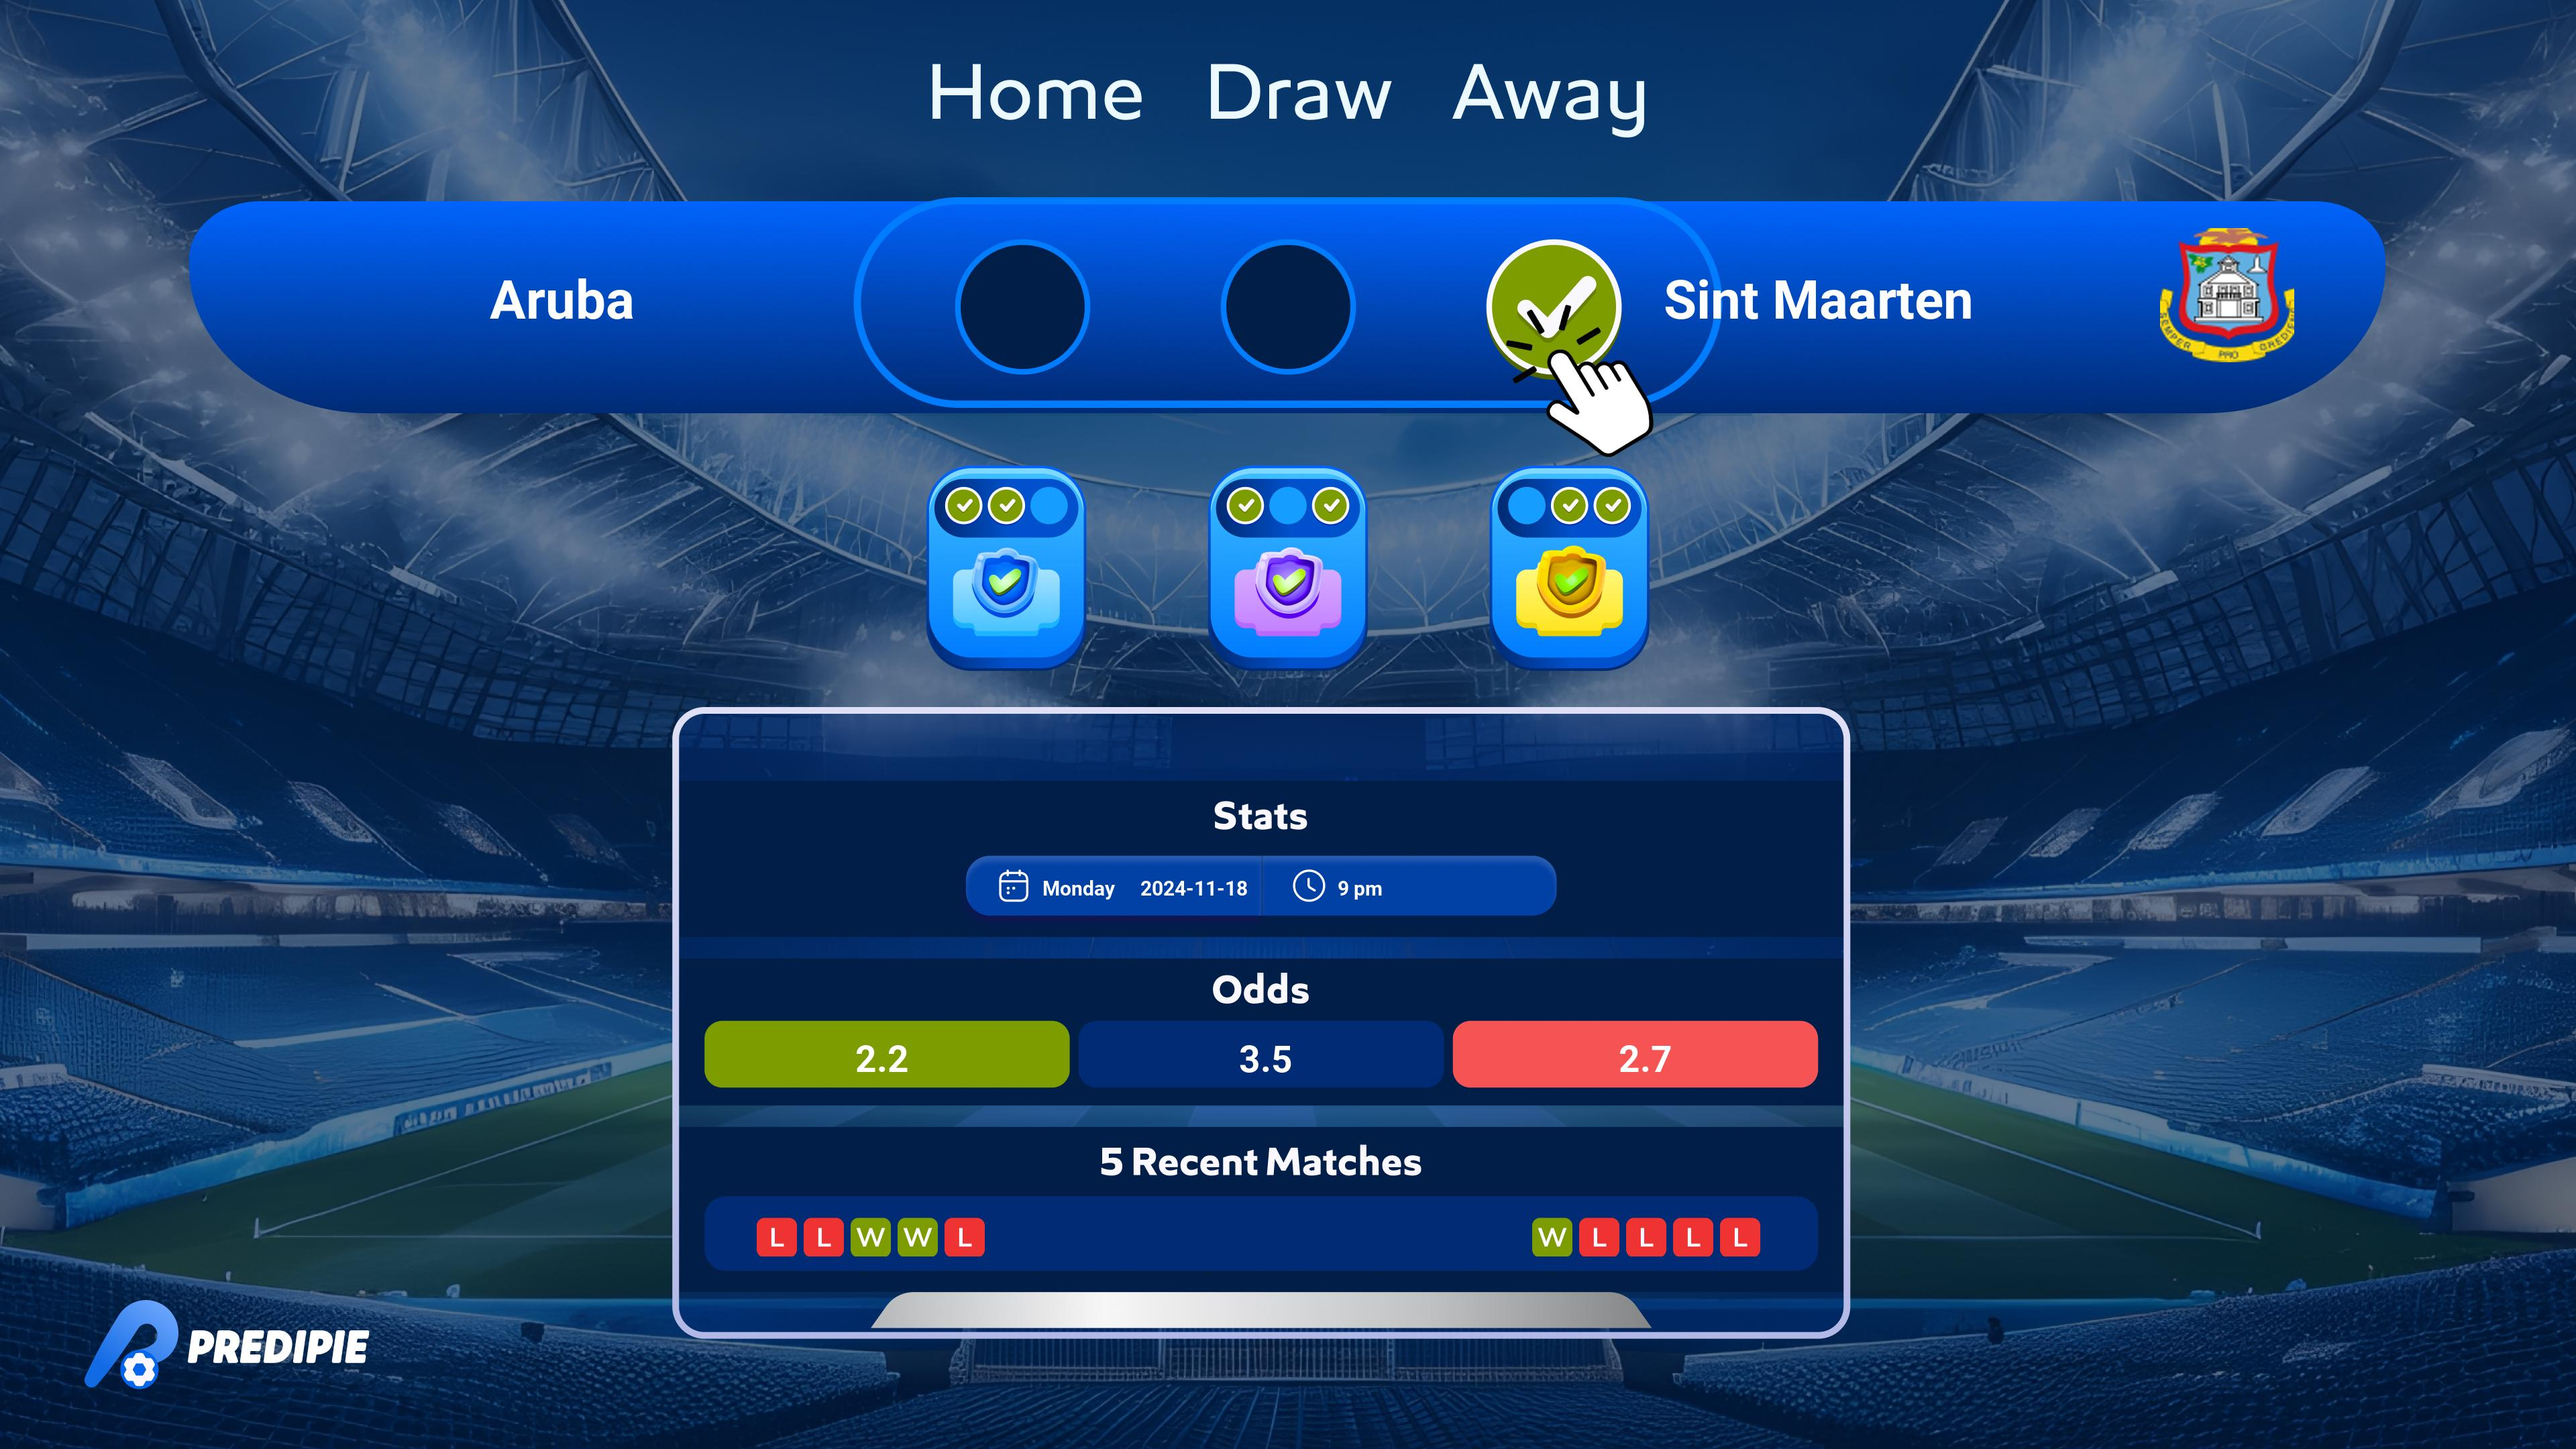
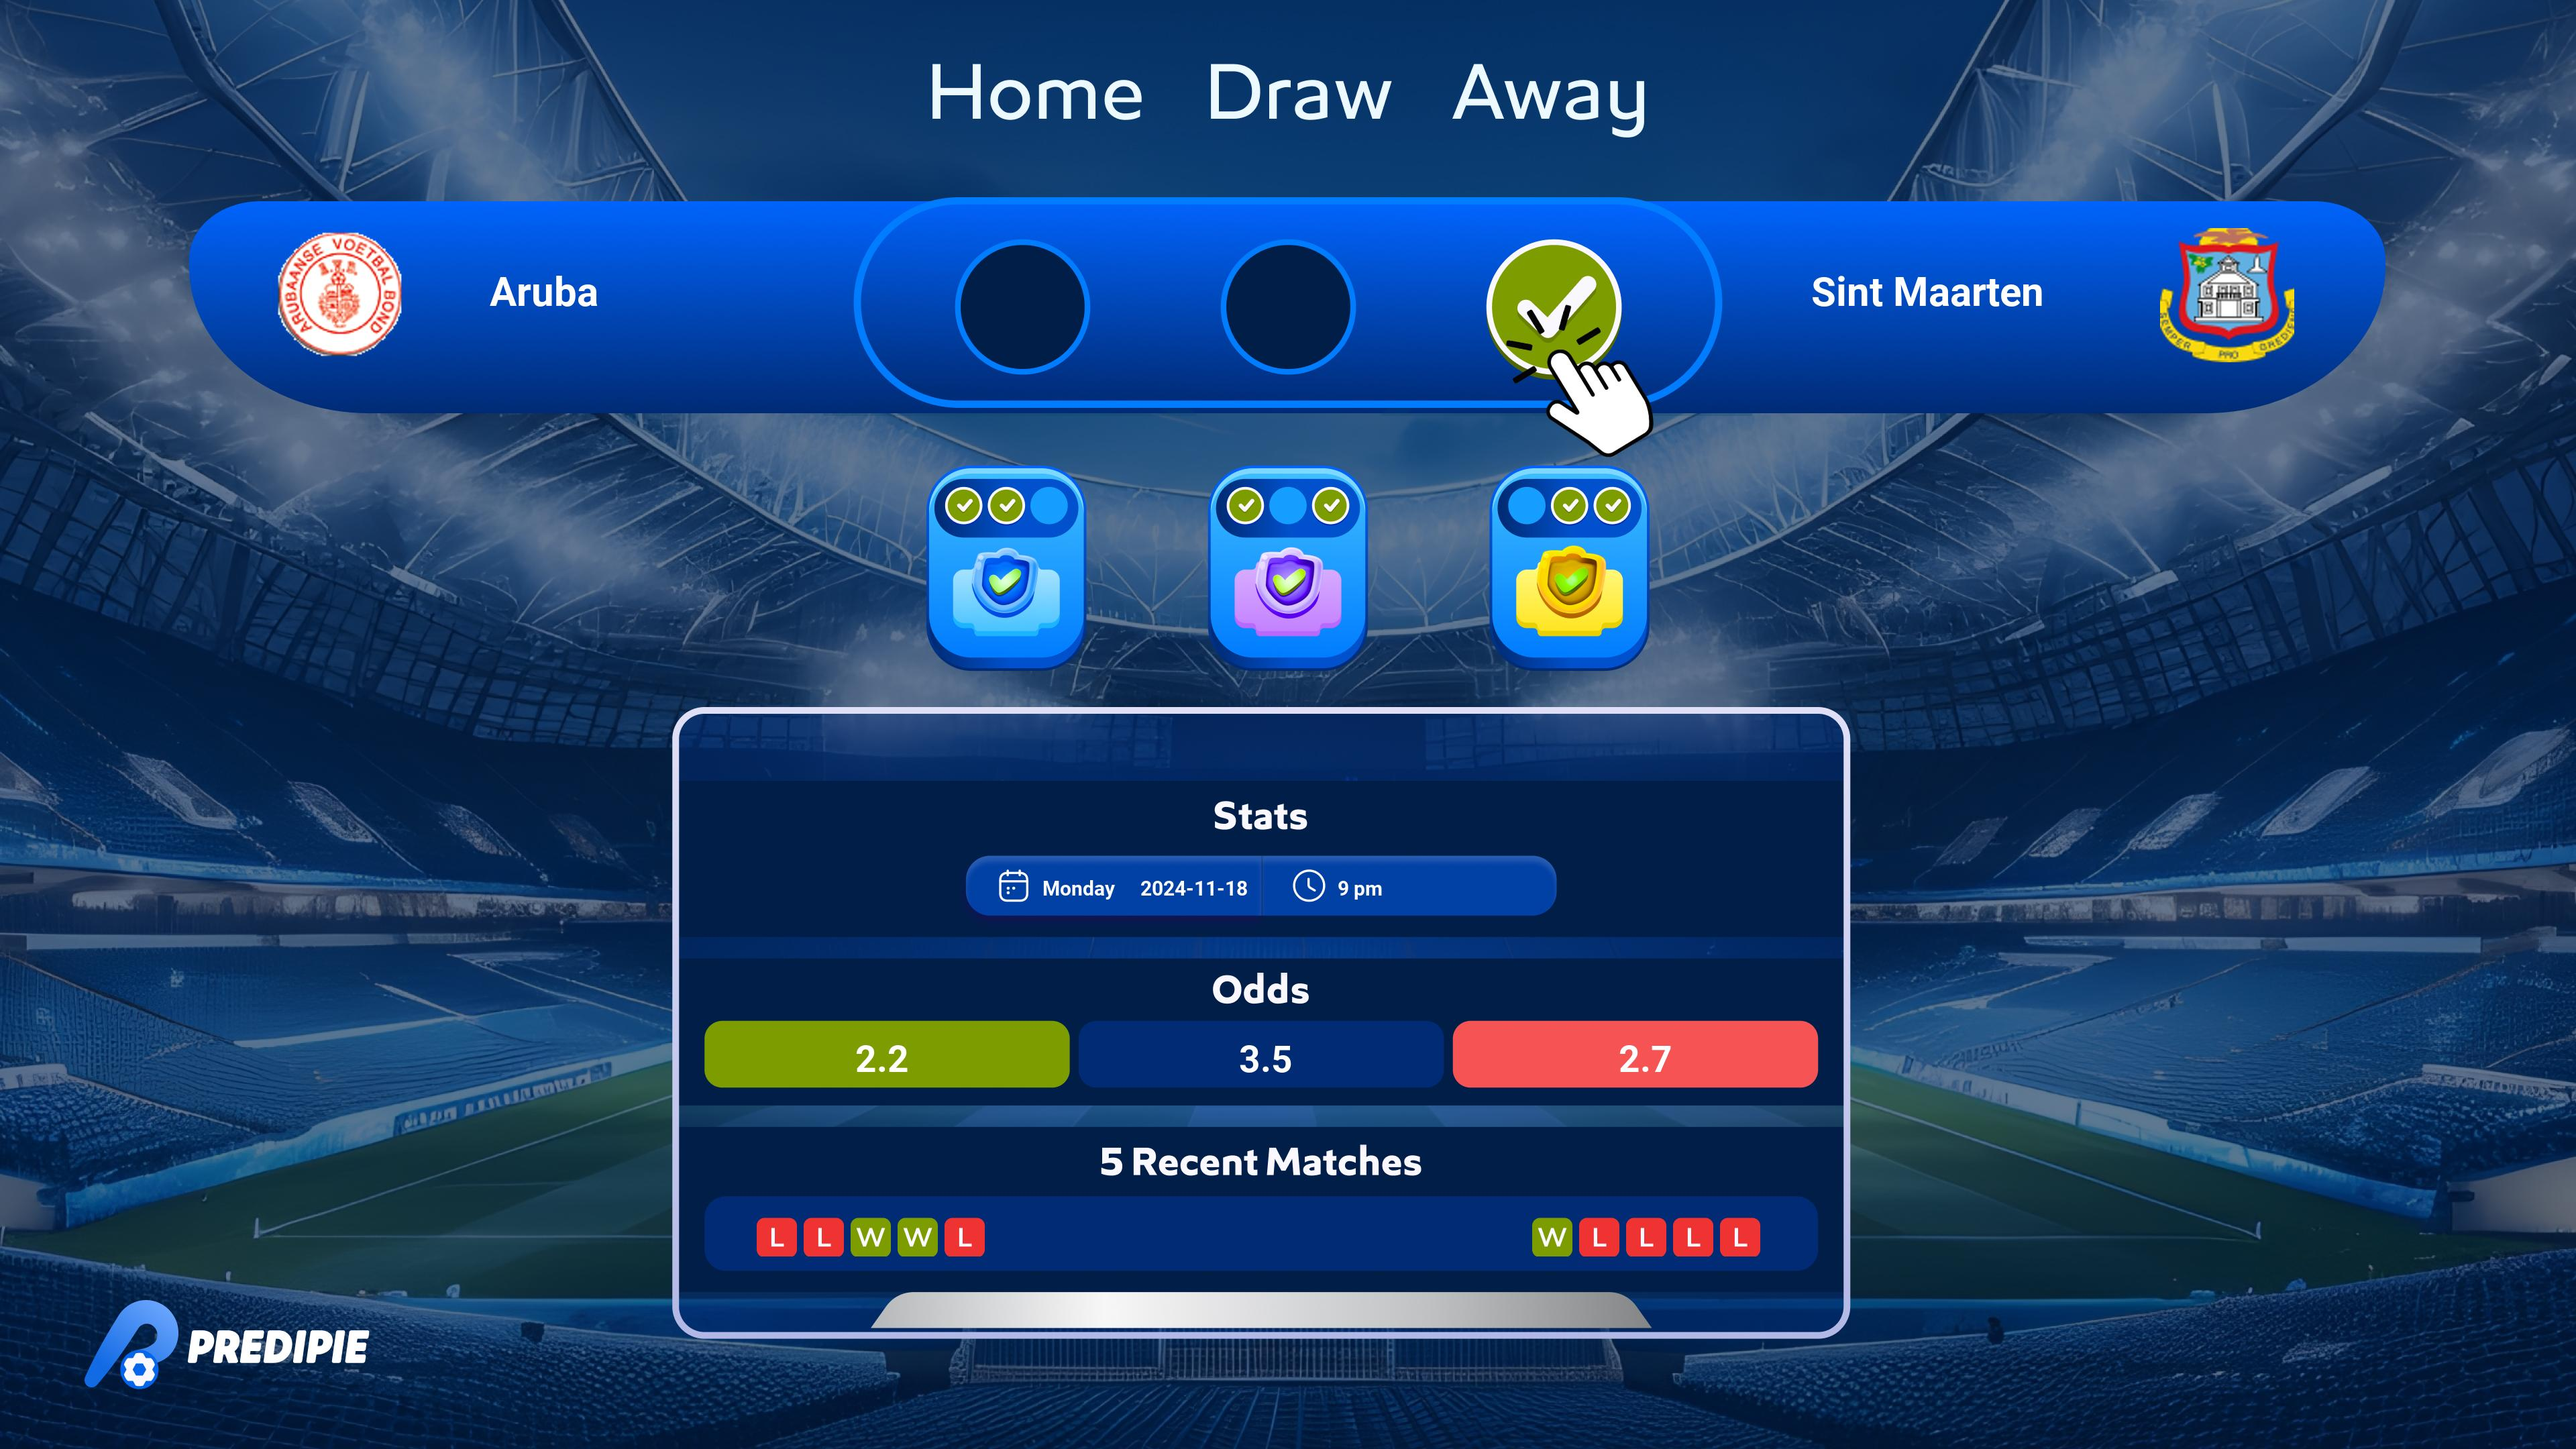
fix: image_5 away team position

Changed region(s): [[0.625, 0.1861, 0.8125, 0.2171], [0.0938, 0.1551, 0.1562, 0.2481], [0.1875, 0.1861, 0.25, 0.2171]]

diff --git a/Predipie-Json/newsrc/imageBuilder/image_renderer.py b/Predipie-Json/newsrc/imageBuilder/image_renderer.py
@@ -15,40 +15,52 @@ class ImageRenderer:
             return ImageFont.truetype(font_path, font_size)
         except IOError:
             print("Custom font not found, using default font.")
-            return ImageFont.load_default()
-    
+        return ImageFont.load_default()
+
     def draw_text(self, draw, position, text, font, color="white"):
         draw.text(position, text, fill=color, font=font)
 
     def paste_icon(self, image, icon, position):
         image.paste(icon, position, icon)
 
-    def render_image(self, image, data, positions, font_path="Roboto-Bold.ttf"):
+    def render_image(self, image, data, positions, image_index, font_path="Roboto-Bold.ttf"):
         draw = ImageDraw.Draw(image)
         
-        # بارگذاری فونتهای با اندازههای مختلف
-        default_font = self.load_font(font_path, 80)
-        small_font = self.load_font(font_path, 30)
-        medium_font = self.load_font(font_path, 55)
+        # تنظیم اندازه فونتها بر اساس تصویر مورد نظر
+        if image_index == 4:
+            # کوچکتر کردن اندازه فونت برای نام تیمها در عکس پنجم
+            team_name_font = self.load_font(font_path, 60)
+        else:
+            team_name_font = self.load_font(font_path, 80)
+
+        stats_font = self.load_font(font_path, 30)
+        odds_font = self.load_font(font_path, 55)
         
         for key, pos in positions.items():
             if key in data:
-                print(f"Drawing {key} at {pos} with data: {data[key]}")  # چاپ اطلاعات برای بررسی
+                print(f"Drawing {key} at {pos} with data: {data[key]}")
+                
                 if "logo" in key:
-                    logo_url = data[key]
-                    try:
-                        response = requests.get(logo_url)
-                        logo = Image.open(BytesIO(response.content)).resize((200, 200))
-                        image.paste(logo, pos, logo)
-                    except Exception as e:
-                        print(f"Could not load logo from {logo_url}: {e}")
+                    # Fetch and paste team logos with RGBA conversion to avoid transparency mask issues
+                    response = requests.get(data[key])
+                    logo = Image.open(BytesIO(response.content))
+
+                    # Ensure logo is in RGBA mode
+                    if logo.mode != "RGBA":
+                        logo = logo.convert("RGBA")
+                    
+                    logo = logo.resize((200, 200))
+                    image.paste(logo, pos, logo)
+                
                 elif key in ["home_team_last_5", "away_team_last_5"]:
-                    # رسم آیکونهای نتایج بازیهای اخیر
+                    # Handle recent matches icons
                     recent_matches = data[key]
-                    icon_spacing = 70  # فاصله بین آیکونها
+                    icon_spacing = 70
                     x_offset = pos[0]
                     
                     for result in recent_matches:
+                        # Match W, L, D regardless of case
+                        result = result.upper()
                         if result == 'W':
                             icon = self.win_icon
                         elif result == 'D':
@@ -56,19 +68,25 @@ class ImageRenderer:
                         elif result == 'L':
                             icon = self.lose_icon
                         else:
-                            continue
+                            continue  # Skip if not 'W', 'L', or 'D'
                         
-                        # رسم آیکون و بروز رسانی موقعیت x
-                        self.paste_icon(image, icon, (x_offset, pos[1]))
+                        # Paste the icon and update x position
+                        image.paste(icon, (x_offset, pos[1]), icon)
                         x_offset += icon_spacing
+                
                 else:
-                    # انتخاب فونت براساس کلید
-                    font = (
-                        small_font if key in ["match_date", "match_time", "match_day"]
-                        else medium_font if key in ["home_odds", "draw_odds", "away_odds"]
-                        else default_font
-                    )
-                    # رسم متن
-                    self.draw_text(draw, pos, str(data[key]), font)
+                    # انتخاب فونت بر اساس نوع داده
+                    if key in ["match_date", "match_time", "match_day"]:
+                        font = stats_font
+                    elif key in ["home_odds", "draw_odds", "away_odds"]:
+                        font = odds_font
+                    elif "team_name" in key:
+                        font = team_name_font
+                    else:
+                        font = self.load_font(font_path, 80)  # فونت پیشفرض
 
+                    # رسم متن روی تصویر
+                    text_value = str(data[key])
+                    self.draw_text(draw, pos, text_value, font)
+        
         return image

diff --git a/Predipie-Json/newsrc/imageBuilder/image_generator.py b/Predipie-Json/newsrc/imageBuilder/image_generator.py
@@ -59,8 +59,9 @@ class ImageGenerator:
 
             # رندر تصویر با استفاده از ImageRenderer
             rendered_image = self.renderer.render_image(
-            template_image, combined_data, combined_positions
-            )
+    template_image, combined_data, combined_positions, i  # اضافه کردن image_index
+)
+
             images.append(rendered_image)
 
             # بهروزرسانی accumulated_data و accumulated_positions برای استفاده در تصویر بعدی

diff --git a/Predipie-Json/newsrc/imageBuilder/template_manager.py b/Predipie-Json/newsrc/imageBuilder/template_manager.py
@@ -29,7 +29,7 @@ class TemplateManager:
         "home_team_logo": (410, 340),
         "home_team_name": (730, 400),
         "away_team_logo": (3220, 340),
-        "away_team_name": (2480, 400),
+        "away_team_name": (2660, 400),
         "match_date": (1700, 1307),
         "match_time": (1994, 1307),
         "match_day": (1554, 1307),
